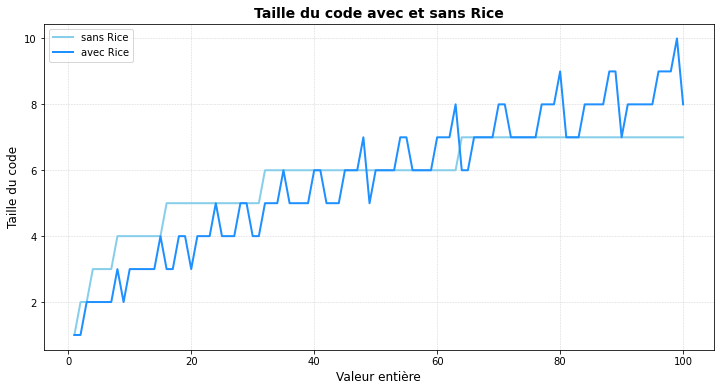
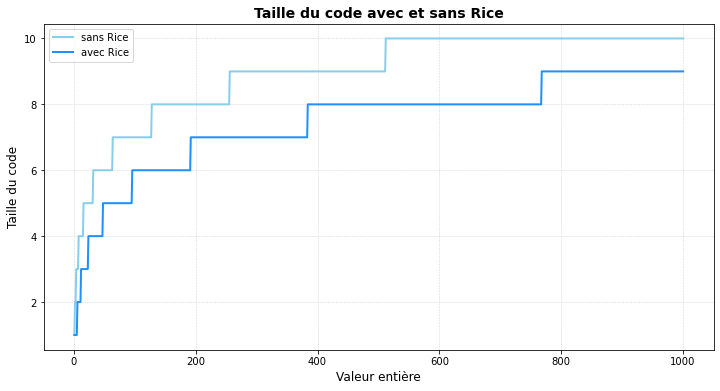
9/5

diff --git a/Compression/Images/FELIC.md b/Compression/Images/FELIC.md
@@ -63,7 +63,6 @@ $$ Entropy = \sum_{k=0}^{255} p_k \log_2(p_k)$$
 
 ```python
 def Entropy(matrice):
-    # Calcul de l'entropie d'une matrice
     hist, _ = np.histogram(matrice.flatten(), bins=256, range=(0, 255), density=True)
     hist = hist[hist > 0]
     entropie = -np.sum(hist * np.log2(hist))
@@ -185,26 +184,29 @@ for i in range(-1,2):
 
 print(len(result))
 
-#je ceux une image en 256*256 avec des pixels noir si ca vaut -1 ou 1 et blanc si ca vaut 0
+# je veux une image en 256*256 avec des pixels verts si ça vaut -1, rouges si ça vaut 1, et bleus si ça vaut 0
 
-def create_image(result):
+def create_colored_image(result):
     h = 256
     w = 256
-    image = np.zeros((h, w), dtype=np.uint8)
+    image = np.zeros((h, w, 3), dtype=np.uint8)  # Image RGB
     for i in range(h):
         for j in range(w):
-            if result[i * w + j] == -1 or result[i * w + j] == 1:
-                image[i, j] = 0
+            if result[i * w + j] == -1:
+                image[i, j] = [0, 255, 0]  # Vert
+            elif result[i * w + j] == 1:
+                image[i, j] = [255, 0, 0]  # Rouge
             else:
-                image[i, j] = 255
+                image[i, j] = [0, 0, 255]  # Bleu
     return image
-image_result = create_image(result)
-plt.imshow(image_result, cmap='gray')
-plt.title('Image binaire')
+
+image_result = create_colored_image(result)
+plt.imshow(image_result) 
+plt.title('Image colorée')
 plt.axis('off')
 plt.show()
 
-#je veux que tu m'enregistre resultat dans un fichier csv
+# je veux que tu m'enregistres le résultat dans un fichier csv
 np.savetxt('result.csv', result, delimiter=',', fmt='%d')
 ```
 
@@ -219,3 +221,10 @@ np.savetxt('result.csv', result, delimiter=',', fmt='%d')
 ![png](FELIC_files/FELIC_12_1.png)
     
 
+
+
+
+
+```python
+
+```

diff --git a/Compression/Codage/Rice.md b/Compression/Codage/Rice.md
@@ -88,35 +88,32 @@ Voici le code qui permet de réaliser le codage de Rice
 
 ```python
 def Rice_encode(value, k):
-    quotient, reste = division(value, k)
-    result = []
+    diviseur = 2 ** k
+    quotient = value // diviseur
+    reste = value % diviseur
 
-    for i in range(0, quotient):
-        result.append(1)
+    result = []
+    result.extend([1] * quotient)
     result.append(0)
 
-    res = [0] * k
-    index = k - 1
-    while reste > 0 and index >= 0:
-        res[index] = reste % 2
-        reste >>= 1
-        index -= 1
+    for i in reversed(range(k)):
+        result.append((reste >> i) & 1)
 
-    result.extend(res)
     return result
+
 
 #Exemple d'utilisation :
 
 value = 25
-k = 10
+k = 4
 
 encoded_value = Rice_encode(value, k)
 print("valeur codée : ", encoded_value)
 print(len(Rice_encode(value, k)))
 ```
 
-    valeur codée :  [1, 1, 0, 0, 0, 0, 0, 0, 0, 0, 1, 0, 1]
-    13
+    valeur codée :  [1, 0, 1, 0, 0, 1]
+    6
 
 
 ### Petite étude de l'intérêt 📊
@@ -125,7 +122,7 @@ print(len(Rice_encode(value, k)))
 ```python
 # Les résultats codage sans Rice
 
-entier = np.linspace(1,100, num=100, dtype=int)
+entier = np.linspace(1,1000, num=1000, dtype=int)
 
 sans_rice = []
 avec_rice = []
@@ -160,9 +157,21 @@ plt.show()
     
 
 
+```markdown
+### Programme en C++ pour le codage de Rice
 
-## TODO : ajouter le décodage dans un lien : 
 
+```cpp
+int main() {
+ 
+    return 0;
+}
+```
+
+
+
+
+[Décodage de Rice](decodage_rice.md)
 
 
 SLIENARD

diff --git a/Compression/Codage/decodage_rice.md b/Compression/Codage/decodage_rice.md
@@ -6,8 +6,8 @@
 ```python
 # Les variables : 
 
-binaires = [1, 1, 0, 0, 0, 0, 0, 0, 0, 0, 1, 0, 1]
-k = 10
+binaires = [1, 0, 1, 0, 0, 1]
+k = 4
 ```
 
 
@@ -16,22 +16,26 @@ import numpy as numpy
 
 
 def Rice_decode(encoded, k):
-    valeur = 0
     parse = 0
+    q = 0
+
+    # Lire le code unaire : nombre de 1 avant le premier 0
     while encoded[parse] == 1:
+        q += 1
         parse += 1
-    valeur = parse * k
-    print("valeur = ", valeur)
+
+    # Sauter le '0' final du code unaire
     parse += 1
-    reste = 0
-    test = int(numpy.log2(k))
-    for i in range(test, 0, -1):
-        print("i = ", i)
-        reste = reste + encoded[parse + i] * (2 ** i)
-    parse += 1
-    print("reste", reste)
-    valeur += reste
+
+    # Lire k bits pour le reste
+    r_bits = encoded[parse:parse + k]
+    r_str = ''.join(str(bit) for bit in r_bits)  # convertir en chaîne binaire
+    r = int(r_str, 2)
+
+    # Calculer la valeur originale
+    valeur = q * (2 ** k) + r
     return valeur
+
 
 
 
@@ -47,10 +51,5 @@ print("Le résultat de la décompression est : ", resultat)
 
 ```
 
-    valeur =  20
-    i =  3
-    i =  2
-    i =  1
-    reste 0
-    Le résultat de la décompression est :  20
+    Le résultat de la décompression est :  25
 
